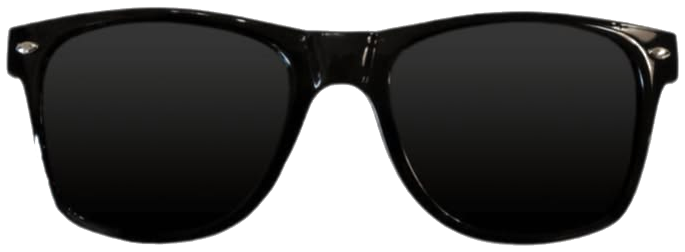
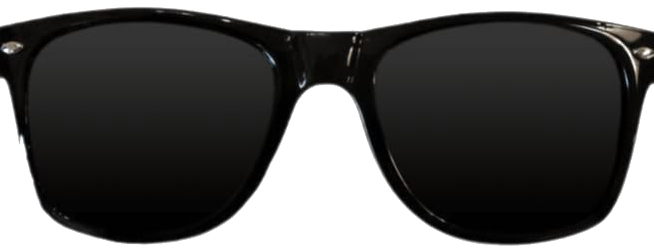
push

diff --git a/lib/faceShape.ts b/lib/faceShape.ts
@@ -35,44 +35,44 @@ const SHAPE_META: Record<FaceShape, { id: string; label: string; glasses: string
   Oval: {
     id: "oval",
     label: "Oval",
-    glasses: "oval-pastel",
-    style: "Oval / Pastel Frame",
-    tip: "Cocok untuk hampir semua frame!",
+    glasses: "clubmaster-frame",
+    style: "Clubmaster / Browline Frame",
+    tip: "Wajah oval cocok untuk hampir semua frame. Clubmaster menonjolkan struktur wajah!",
   },
   Round: {
     id: "round",
     label: "Round",
     glasses: "square-frame",
-    style: "Square / Rectangle Frame",
-    tip: "Frame kotak menciptakan keseimbangan.",
+    style: "Kotak / Rectangle Frame",
+    tip: "Frame kotak menciptakan kontras dan memberikan kesan tegas di wajah bulat.",
   },
   Square: {
     id: "square",
     label: "Square",
     glasses: "round-frame",
-    style: "Round / Wire Frame",
-    tip: "Frame bulat melembutkan rahang tegas.",
+    style: "Bulat / Oval Frame",
+    tip: "Frame bulat melembutkan rahang tegas dan memberikan keseimbangan.",
   },
   Heart: {
     id: "heart",
     label: "Heart",
-    glasses: "cateye-pastel",
-    style: "Cat-Eye / Pastel Frame",
-    tip: "Cat-eye menyeimbangkan dagu lancip.",
+    glasses: "cateye-pastel-v2",
+    style: "Cat-Eye Pastel Frame",
+    tip: "Cat-eye menyeimbangkan dagu lancip dan menonjolkan tulang pipi.",
   },
   Diamond: {
     id: "diamond",
     label: "Diamond",
-    glasses: "oval-pastel",
-    style: "Round / Cat-Eye Frame",
-    tip: "Frame bulat/cat-eye melembutkan tulang pipi tinggi.",
+    glasses: "cateye-frame",
+    style: "Cat-Eye / Semi-Kotak Frame",
+    tip: "Cat-eye atau semi-kotak memperlebar tampilan dan melembutkan tulang pipi tinggi.",
   },
   Oblong: {
     id: "oblong",
     label: "Oblong",
     glasses: "clubmaster-frame",
     style: "Clubmaster / Browline Frame",
-    tip: "Frame lebar bikin wajah kelihatan proporsional.",
+    tip: "Frame lebar & penuh membuat wajah panjang terlihat lebih proporsional.",
   },
 };
 
